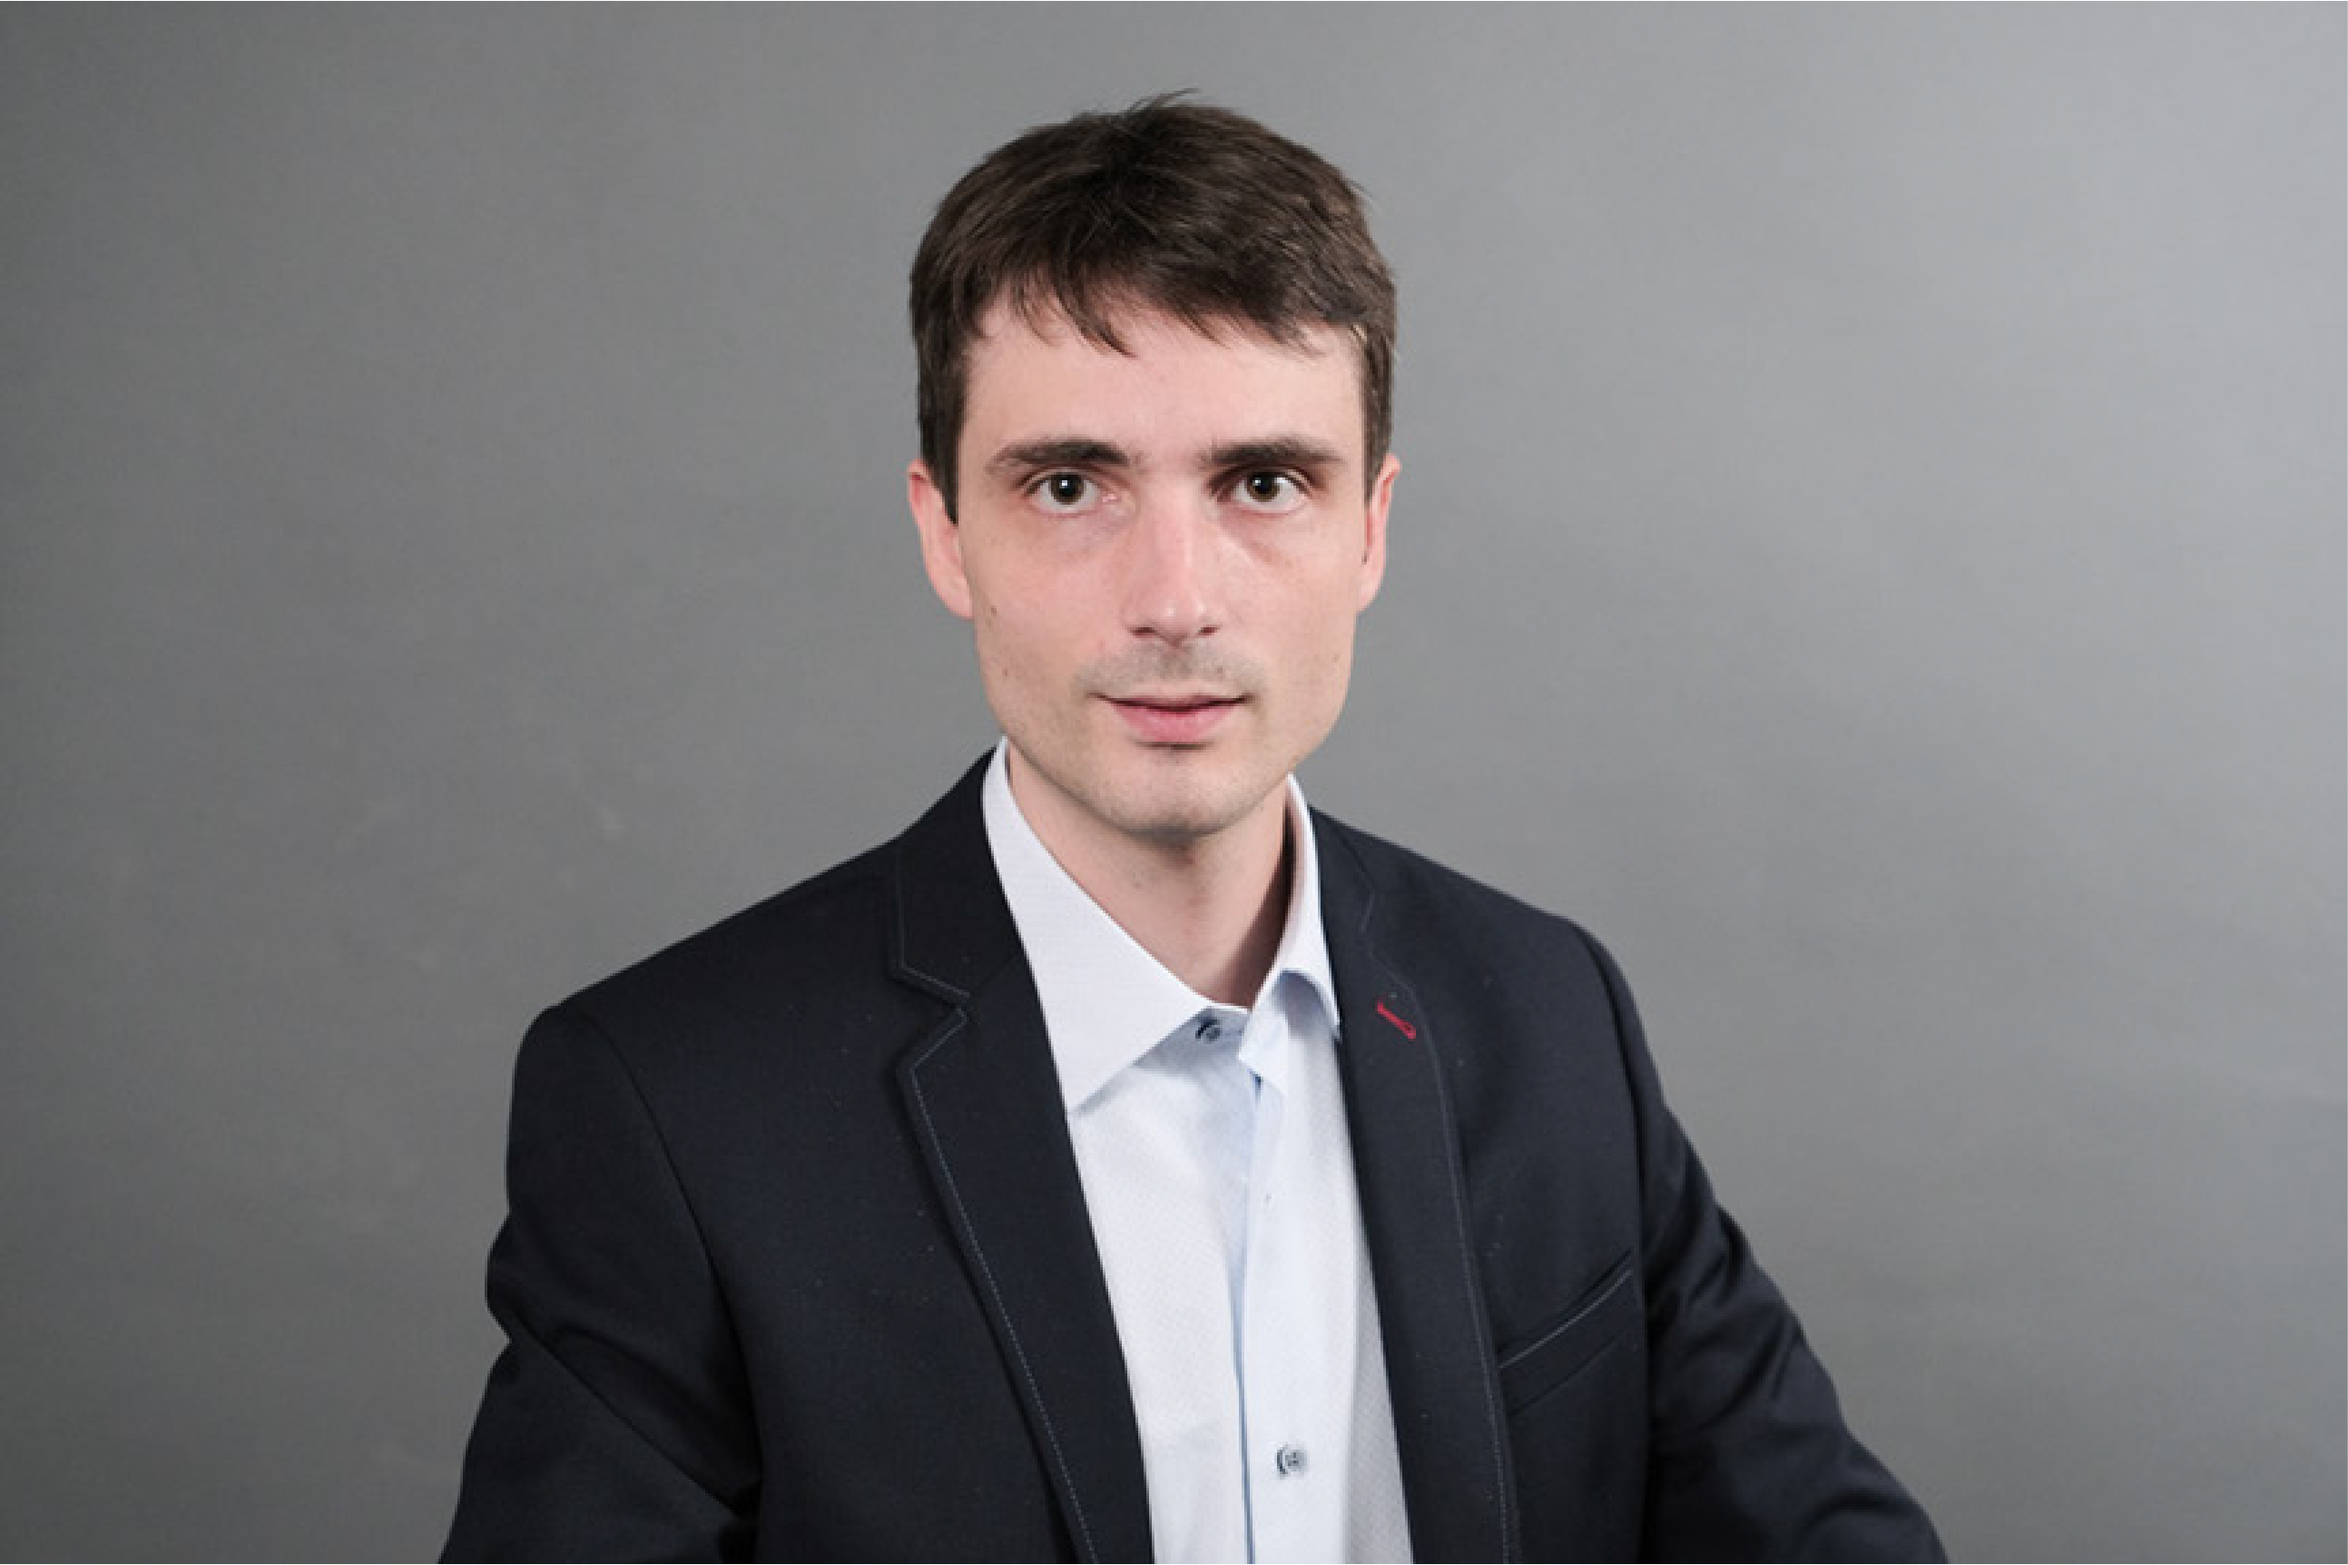
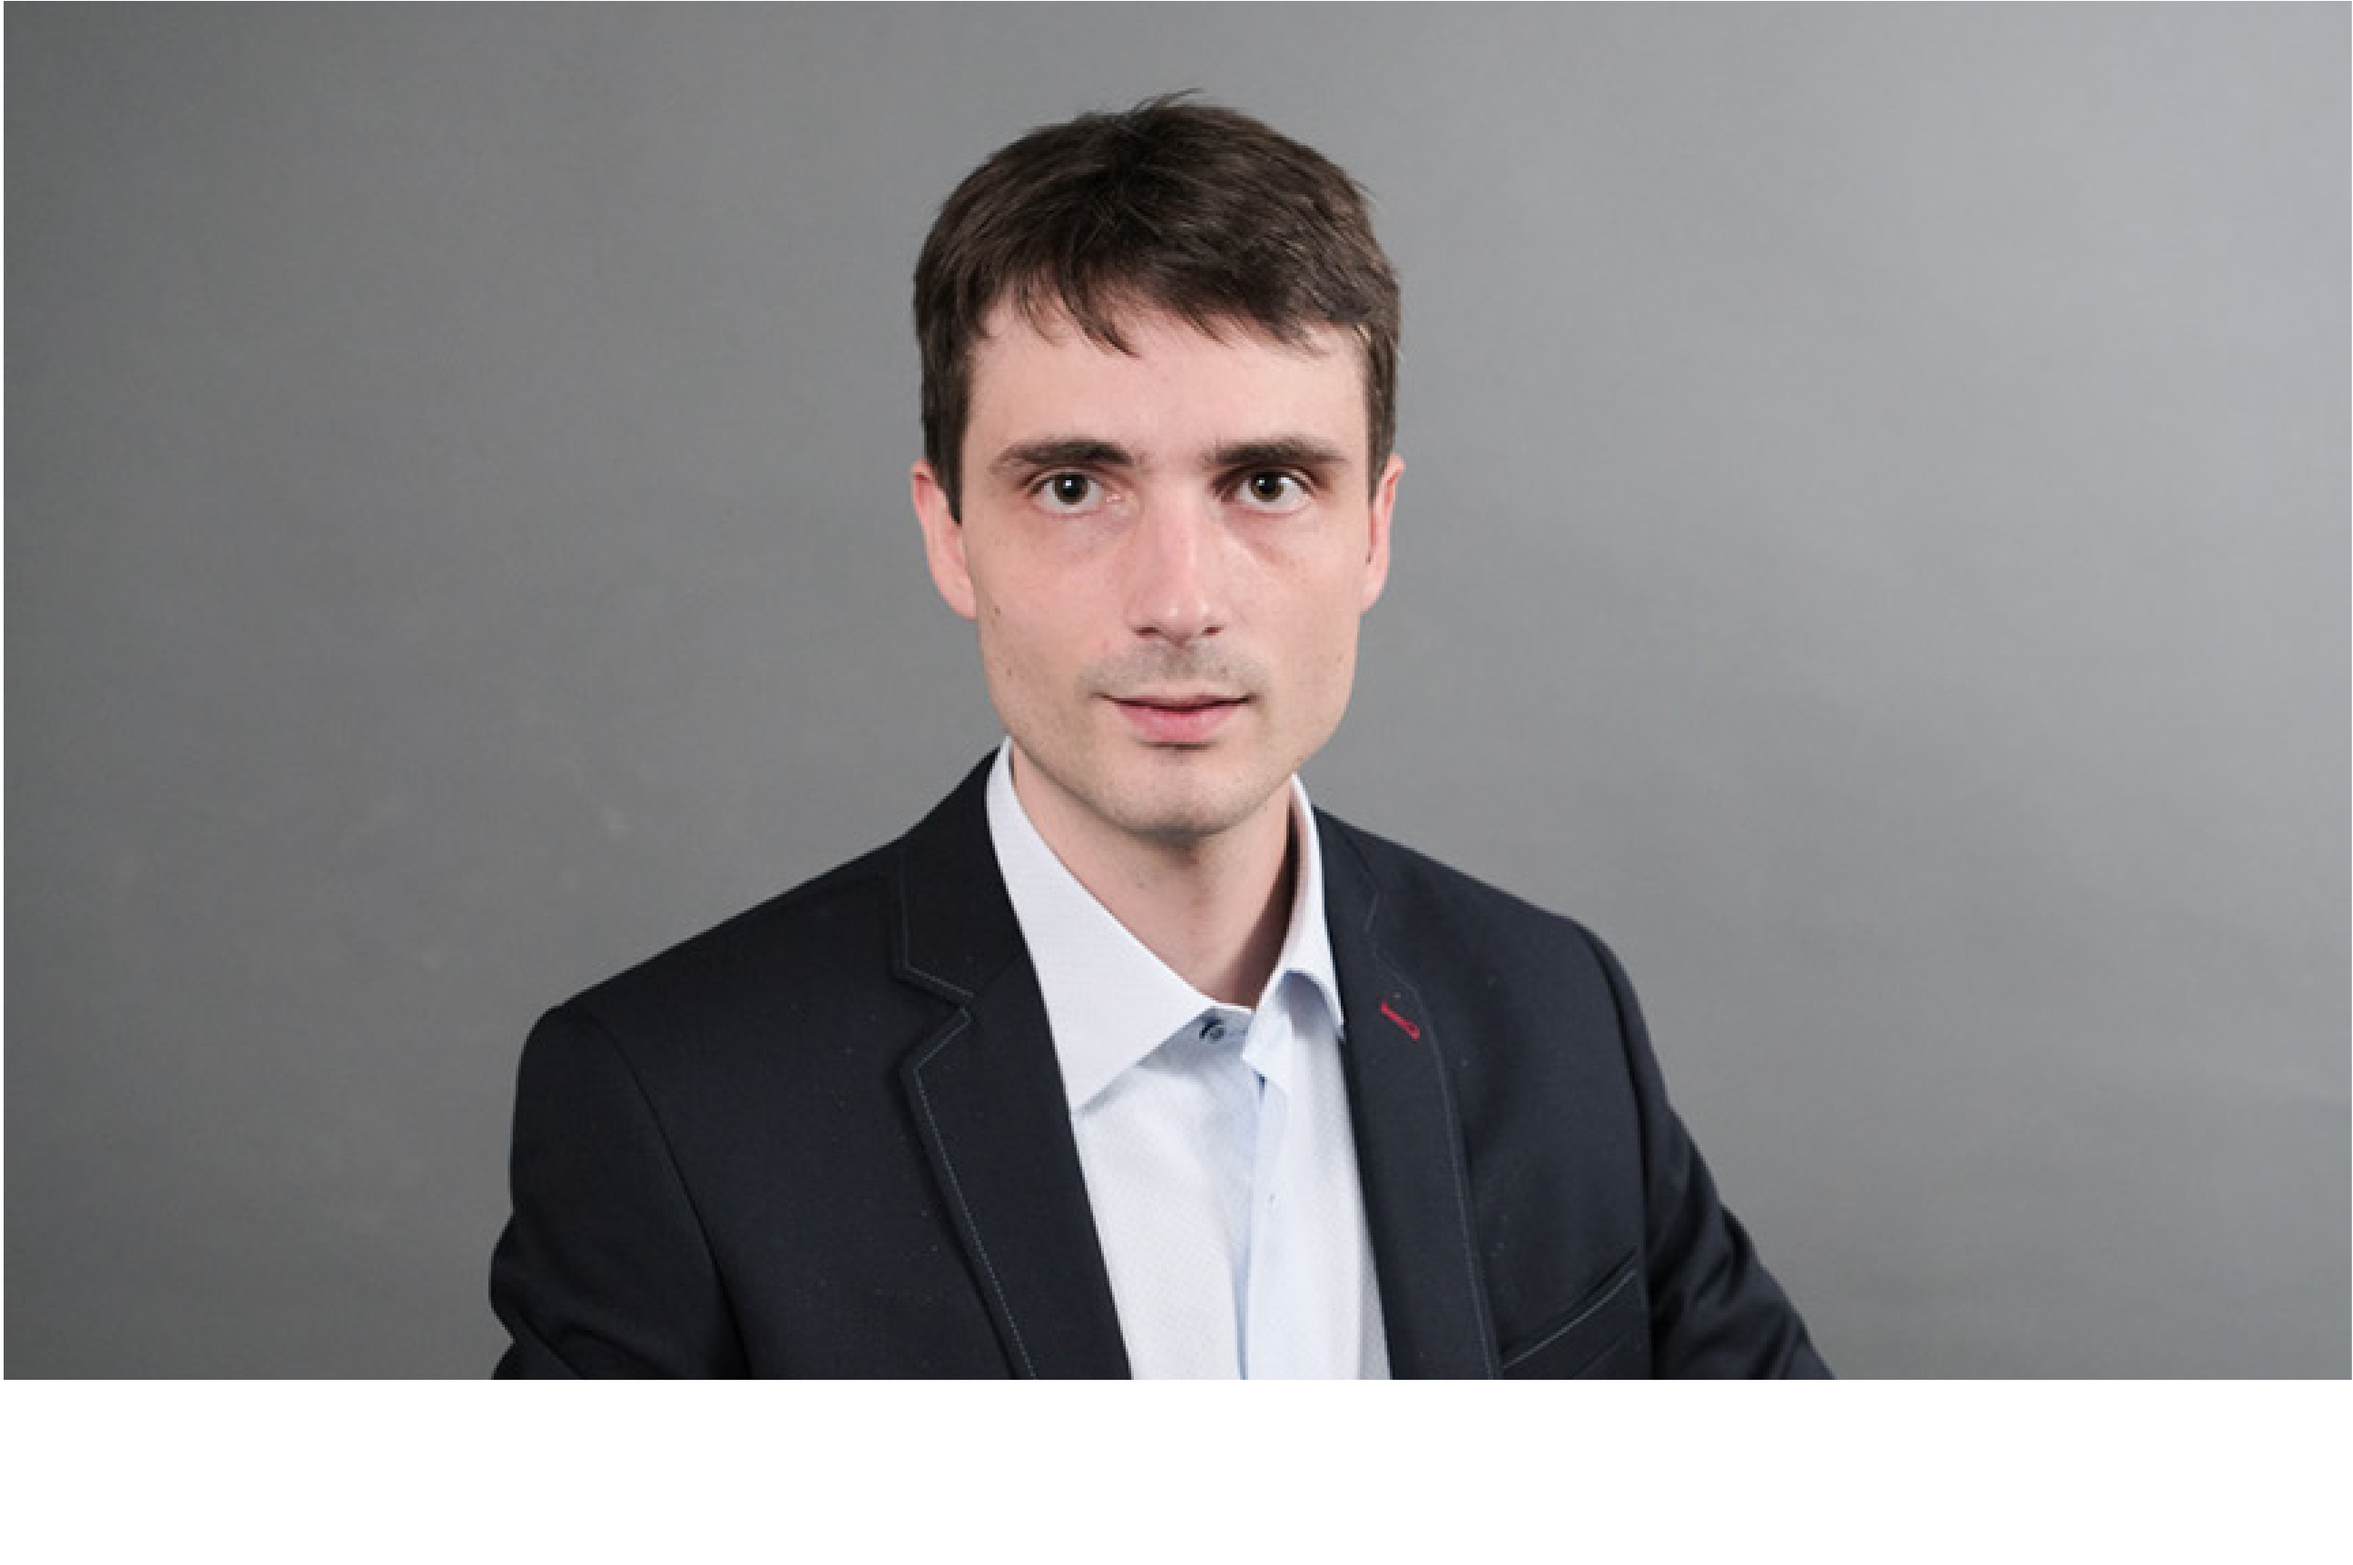
border picture sizes

Changed region(s): [[0.0, 0.8608, 1.0, 1.0], [0.402, 0.4611, 0.4329, 0.5226]]

diff --git a/index.html b/index.html
@@ -33,7 +33,7 @@
             </div>
             <div class="row">
                 <div class="col-xm-10 col-md-6">
-                    <div class="image-container1" id="image-top">
+                    <div class="image-container" id="image-top">
                         <a href="#"><img src="images\claudio.jpg"></a>
                     </div>
                 </div>
@@ -105,7 +105,7 @@
                         <div class="image-container">
                             <a
                                 href="https://www.helvetia.com/ch/web/de/ueber-uns/ueber-helvetia/portrait/kooperationspartner/raiffeisen.html"><img
-                                    src="images\helvetia neu.png"></a>
+                                    src="images\helvetia.png"></a>
                         </div>
                         <h3>Praktikum 100% für KV-Erweiterte Grundbildung</h3>
                         <h3>Helvetia Versicherung Agentur Raiffeisen</h3>
@@ -143,12 +143,11 @@
         <div class="row">
             <div class="col-xs-12 col-sm-4 ">
                 <div class="image-container">
-                    <a href="#"><img src="images\bvs.jpg"></a>
+                    <a href="#"><img src="images\bvs.png"></a>
                 </div>
                 <h3>BVS St. Gallen</h3>
                 <h3>Dipl. Betriebswirtschafter HF</h3>
                 <p>07.2016 - 04.2017</p>
-
                 <p>Betriebswirtschaftlehre</p>
                 <p>Ganzheitliche Fallstudien 1</p>
                 <p>Volkswirtschaftslehre</p>
@@ -158,7 +157,7 @@
             </div>
             <div class="col-xs-12 col-sm-4 ">
                 <div class="image-container">
-                    <a href="#"><img src="images\siz neu.png"></a>
+                    <a href="#"><img src="images\siz.png"></a>
                 </div>
                 <h3>ICT Assistant PC/Network SIZ</h3>
                 <p>10.2013 - 10.2014</p>
@@ -235,11 +234,9 @@
 
             <!-- Wrapper for slides -->
             <div class="carousel-inner">
-
                 <div class="item active">
                     <div class="iframe-container">
                         <img src="//unsplash.it/705/705" alt="Chicago" style="width:100%;">
-
                     </div>
                     <div class="carousel-caption">
                         <h1>Meine Hobbys:</h1>
@@ -248,26 +245,24 @@
                         <p>Freunde</p>
                     </div>
                 </div>
-
                 <div class="item">
                     <img src="images\sky.jpg" alt="Chicago" style="width:100%;">
+                    <div class="carousel-caption">
+                        <h1>Weitere Hobbys:</h1>
+                        <p>Programmieren</p>
+                        <p>Velofahren</p>
+                        <p>Kochen</p>
+                    </div>
+                </div>
+                <div class="item">
+                    <img src="images\desert.jpg" alt="New York" style="width:100%;">
                     <div class="carousel-caption">
                         <h1>Meine Stärken:</h1>
                         <p>Geduld</p>
                         <p>Durchhaltewillen</p>
                         <p>Logisches Denken</p>
-
                     </div>
                 </div>
-
-                <div class="item">
-                    <img src="images\desert.jpg" alt="New York" style="width:100%;">
-                    <div class="carousel-caption">
-                        <p></p>
-                        <h1></h1>
-                    </div>
-                </div>
-
             </div>
 
             <!-- Left and right controls -->
@@ -303,7 +298,13 @@
 
 </body>
 
-</html>
+<footer>
+    <div class="container">
+        <div class="footer-copyright text-center py-3">
+            <h3><br>© 2019 Copyright: Claudio Lutz</h3>
+        </div>
+    </div>
+</footer>
 </body>
 <script src="main.js"></script>
 

diff --git a/style.css b/style.css
@@ -41,7 +41,8 @@ img {
 .container{
     margin-top: 0px;
     margin-bottom: 0px;
-    border-top: 2px solid whitesmoke;
+    border-top: 5px solid whitesmoke;
+    border-bottom: 2px solid #399bd1;
 }
 li{
   margin-top: 10px;
@@ -85,9 +86,7 @@ nav ul{
   -ms-transition: .5s box-shadow;
   -o-transition: .5s box-shadow;
 }
-#meilensteine .image-container img{
-  padding-bottom: 25rem;
-}
+
 
 .btn-primary:hover {
   background-color: #399bd1;
@@ -200,7 +199,7 @@ h1 {
   }
   .row{
     min-width: 100%;
-    border: solid 2px blue; 
+    border: solid 2px #399bd1; 
   }
 
 
@@ -229,13 +228,14 @@ h1 {
 
 /* Project Image Containers */
 
-#image-top {
-  overflow: hidden;
-  
+#image-top img {
+  scale: 100%;
+  margin: 0 auto;
+
 }
 
 .image-container img {
-  opacity: 0.7;
+  opacity: 0.6;
   transition: transform .5s,              opacity .5s;
   transition: transform .5s,              opacity .5s;
   -webkit-transition: transform .5s,;
@@ -246,11 +246,11 @@ h1 {
 
 .image-container img:hover {
   opacity: 1;
-  -webkit-transform: scale(1.2);
-  -ms-transform: scale(1.2);
-  transform: scale(1.2);
-  -moz-transform: scale(1.2);
-  -o-transform: scale(1.2);
+  -webkit-transform: scale(1.4);
+  -ms-transform: scale(1.4);
+  transform: scale(1.4);
+  -moz-transform: scale(1.4);
+  -o-transform: scale(1.4);
 }
 
 /* Featured Project */
